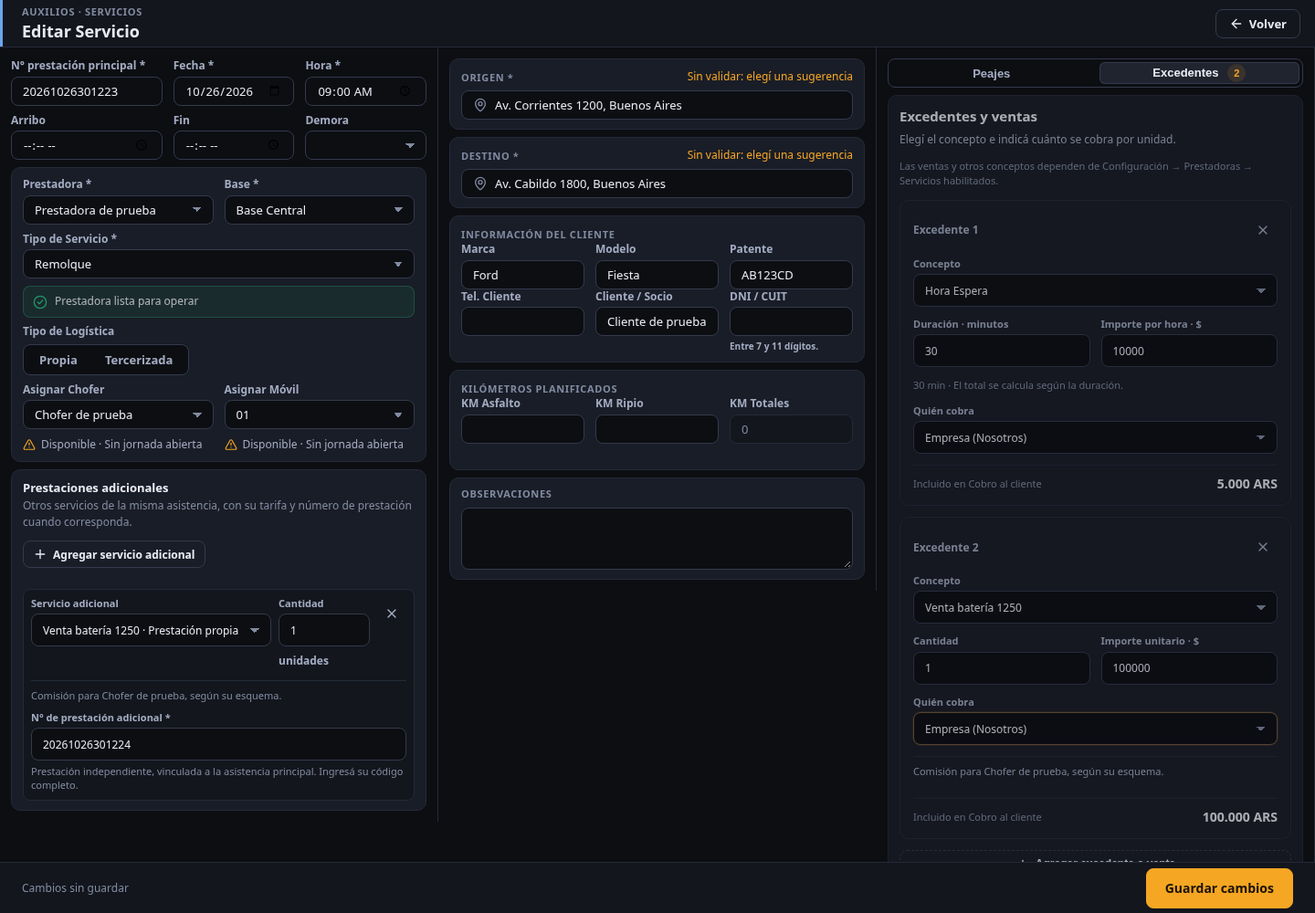
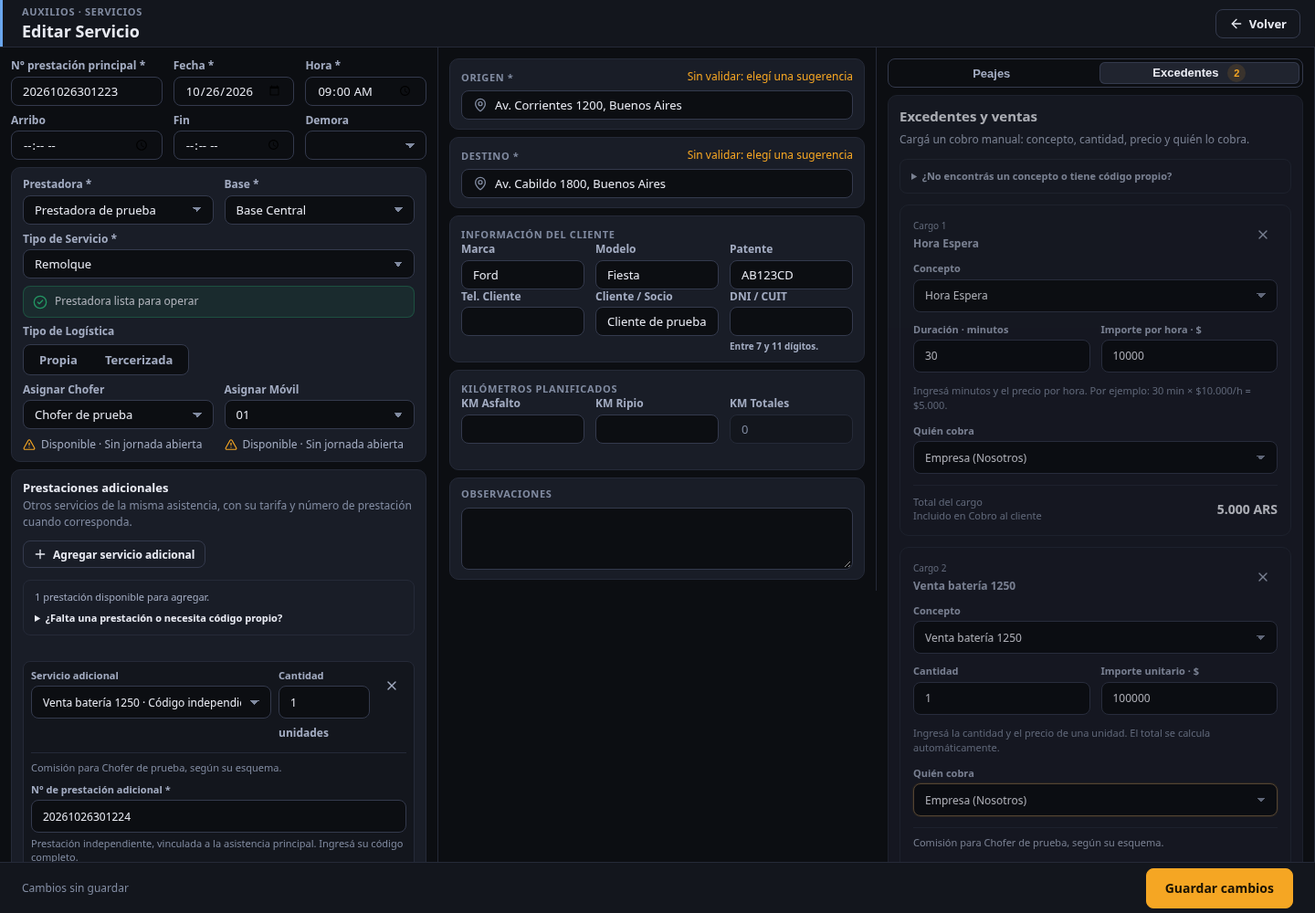
Clarify excess charge entry and additional prestation availability

diff --git a/operator-service-workspace-reactive-v1.js b/operator-service-workspace-reactive-v1.js
@@ -85,7 +85,7 @@ function mount(){
   <section class="osv2-column admin-column">
    <div class="osv2-inline-grid three top-fields"><label><span>N° prestación principal *</span><input id="osv4-service-order" data-key="service_order_number"></label><label><span>Fecha *</span><input id="osv4-date" type="date" data-schedule="date"></label><label><span>Hora *</span><input id="osv4-time" type="time" data-schedule="time"></label><label><span>Arribo</span><input id="osv4-arrival" type="time" data-time-field="estimated_arrival_at"></label><label><span>Fin</span><input id="osv4-finish" type="time" data-time-field="estimated_finish_at"></label><label><span>Demora</span><select id="osv4-delay" data-key="granted_delay_minutes"><option value="0">Sin demora</option>${[30,60,75,90,120,180,240].map(v=>`<option value="${v}">${v} min</option>`).join('')}</select></label></div>
    <section class="osv2-card admin-card"><div class="osv2-inline-grid two"><label><span>Prestadora *</span><select id="osv4-company" data-struct="company"></select></label><label><span>Base *</span><select id="osv4-base" data-struct="base"></select></label></div><label><span>Tipo de Servicio *</span><select id="osv4-primary" data-struct="primary"></select></label><div id="osv4-context-status" class="osv4-context-status"></div><div class="osv2-logistics"><span>Tipo de Logística</span><div><button id="osv4-logistics-own" type="button" data-click="set-logistics" data-logistics="own">Propia</button><button id="osv4-logistics-third" type="button" data-click="set-logistics" data-logistics="third_party">Tercerizada</button></div></div><div class="osv2-inline-grid two assignment-grid" data-field-config="assigned_resources"><label><span data-field-label>Asignar Chofer</span><select id="osv4-driver" data-assignment="driver"></select></label><label><span data-field-label>Asignar Móvil</span><select id="osv4-truck" data-assignment="truck"></select></label></div><div id="osv4-terc-pick" class="osc-pick" hidden></div></section>
-   <section class="osv2-concepts-section"><div class="osv2-concepts-head"><div><b>Prestaciones adicionales</b><small>Otros servicios de la misma asistencia, con su tarifa y número de prestación cuando corresponda.</small></div><button id="osv4-add-concept" class="osv2-add-concept-trigger" type="button" data-click="add-concept" disabled>${ico('plus')}Agregar servicio adicional</button></div><div id="osv4-concept-rows" class="osv4-concept-table"></div></section>
+   <section class="osv2-concepts-section"><div class="osv2-concepts-head"><div><b>Prestaciones adicionales</b><small>Otros servicios de la misma asistencia, con su tarifa y número de prestación cuando corresponda.</small></div><button id="osv4-add-concept" class="osv2-add-concept-trigger" type="button" data-click="add-concept" disabled>${ico('plus')}Agregar servicio adicional</button></div><div id="osv4-concept-guidance" class="osv4-concept-guidance" role="status"></div><div id="osv4-concept-rows" class="osv4-concept-table"></div></section>
   </section>
   <section class="osv2-column route-column">
    ${locationMarkup('origin','Origen')}${locationMarkup('destination','Destino')}
@@ -107,7 +107,7 @@ function bind(shell){shell.addEventListener('input',onInput);shell.addEventListe
 function onInput(e){const t=e.target;if(W()?.mode==='view')return;if(t.id==='osv4-change-reason'){window.cambiarMotivoServicio?.(t.value);return syncFooter();}if(t.dataset.conceptQty){window.cantidadSecundarioServicio?.(t.dataset.conceptQty,t.dataset.minutes==='true'?window.AuxiliosServiceImprovements.minutesToHours(t.value):t.value,false);return syncFooter();}if(t.dataset.conceptCode){window.codigoSecundarioServicio?.(t.dataset.conceptCode,t.value);const error=O()?.prestationCodeErrors?.()[t.dataset.conceptCode];t.setAttribute('aria-invalid',String(!!error&&ui.showConceptErrors));const help=t.closest('.osv4-code-cell')?.querySelector('.osv4-code-help');if(help){help.classList.toggle('is-error',!!error&&ui.showConceptErrors);help.textContent=error&&ui.showConceptErrors?error:'Prestación independiente, vinculada a la asistencia principal.';}return syncFooter();}if(t.dataset.key){let v=t.value;if(t.dataset.key==='vehicle_plate')v=v.toUpperCase();if(t.dataset.key==='customer_phone')v=digits(v,15);if(t.dataset.key==='customer_document')v=digits(v,11);if(t.value!==v)t.value=v;window.osSetServicio?.(t.dataset.key,v);return syncFooter();}if(t.dataset.distance){const v=decimal(t.value);if(t.value!==v)t.value=v;window.osSetServicio?.(t.dataset.distance,Math.max(0,num(v)));const d=W()?.data||{};window.osSetServicio?.('estimated_distance_km',num(d.estimated_asphalt_km)+num(d.estimated_gravel_km));setControl('osv4-total-km',num(d.estimated_asphalt_km)+num(d.estimated_gravel_km));return syncFooter();}if(t.dataset.address)return addressInput(t.dataset.address,t.value);}
 async function onChange(e){if(e.target.hasAttribute('data-activation-kind')){W().activationKind=e.target.value;W().activationChoiceOpen=false;W().dirty=true;syncIntakeActivation();if(e.target.value==='origin')await computeRoute();else{/* Se parte de los km que informó el chofer, si los hay. */const km=Math.max(0,num(W().reportedDistanceKm));for(const [k,v] of [['estimated_asphalt_km',km],['estimated_gravel_km',0],['estimated_distance_km',km]])window.osSetServicio?.(k,v);window.AuxiliosRouteGeometry=null;statusLine(document.getElementById('osv4-route-status'),'activation-movement','','Activado Movida: cargá los km que hizo el móvil.');sync();}return;}if(W()?.mode==='view')return;const t=e.target;if(t.dataset.struct==='company'){ui.conceptRows=[];await window.seleccionarEmpresaServicio?.(t.value);await computeRoute();return sync();}if(t.dataset.struct==='base'){await window.cambiarBaseServicio?.(t.value);await computeRoute();return sync();}if(t.dataset.struct==='primary'){await window.seleccionarPrincipalServicio?.(t.value);return sync();}if(t.dataset.conceptRow!==undefined)return setConceptRow(t.dataset.conceptRow,t.value);if(t.dataset.conceptQty)return window.cantidadSecundarioServicio?.(t.dataset.conceptQty,t.dataset.minutes==='true'?window.AuxiliosServiceImprovements.minutesToHours(t.value):t.value,true);if(t.dataset.schedule)return setSchedule(t.dataset.schedule,t.value);if(t.dataset.timeField)return setTimeField(t.dataset.timeField,t.value);if(t.dataset.assignment){await window.asignarRecursoServicio?.(t.dataset.assignment,t.value);return sync();}}
 function canEditFromView(w){if(!w||w.mode!=='view'||w.busy||!O()?.canManage?.())return false;if(['completed','cancelled'].includes(w.serviceStatus))return !!O()?.canEditHistoryService?.({...O()?.service?.(w.serviceId),...w.serviceSnapshot,status:w.serviceStatus});return !!w.locks?.can_edit;}
-async function onClick(e){const b=e.target.closest?.('[data-click]');if(!b)return;const a=b.dataset.click;if(a==='close')return window.cerrarNuevoServicio?.();if(a==='edit-from-view'){const w=W(),id=w?.serviceId;if(!id||!canEditFromView(w))return;const edit=w.serviceStatus==='completed'?window.editarServicioFacturacion:window.editarServicioOperador;if(typeof edit!=='function')return window.toast?.('El editor todavía se está cargando. Intentá nuevamente.','warning');window.cerrarNuevoServicio?.(true);return edit(id);}if(W()?.mode==='view')return;if(a==='finish')return window.AuxiliosRemitoReviewV2?.finalizeEmbedded?.();if(a==='save'){await window.guardarServicioWorkspace?.({keepOpen:W()?.mode==='edit'&&!!W()?.remitoId});return sync();}if(a==='set-logistics'){window.osSetServicio?.('logistics_type',b.dataset.logistics||'own');/* Tercerizada: lo hace una grúa de afuera, sin chofer ni móvil propios. */if(b.dataset.logistics==='third_party'&&!locked('assigned_driver_id')&&!locked('assigned_truck_id')){window.osSetServicio?.('assigned_driver_id','');window.osSetServicio?.('assigned_truck_id','');}return sync();}if(a==='add-concept'){if(!W()?.data?.company_id||conceptsLocked())return;const empty=ui.conceptRows.find(r=>!r.conceptId);if(!empty)ui.conceptRows.push({id:uid(),conceptId:''});renderConcepts();document.querySelector('#osv4-concept-rows [data-concept-row="'+(empty?.id||ui.conceptRows.at(-1).id)+'"]')?.focus();return;}if(a==='remove-concept')return removeConceptRow(b.dataset.row);if(a==='pick-address')return selectAddress(b.dataset.kind,Number(b.dataset.index));}
+async function onClick(e){const b=e.target.closest?.('[data-click]');if(!b)return;const a=b.dataset.click;if(a==='close')return window.cerrarNuevoServicio?.();if(a==='edit-from-view'){const w=W(),id=w?.serviceId;if(!id||!canEditFromView(w))return;const edit=w.serviceStatus==='completed'?window.editarServicioFacturacion:window.editarServicioOperador;if(typeof edit!=='function')return window.toast?.('El editor todavía se está cargando. Intentá nuevamente.','warning');window.cerrarNuevoServicio?.(true);return edit(id);}if(W()?.mode==='view')return;if(a==='finish')return window.AuxiliosRemitoReviewV2?.finalizeEmbedded?.();if(a==='save'){await window.guardarServicioWorkspace?.({keepOpen:W()?.mode==='edit'&&!!W()?.remitoId});return sync();}if(a==='set-logistics'){window.osSetServicio?.('logistics_type',b.dataset.logistics||'own');/* Tercerizada: lo hace una grúa de afuera, sin chofer ni móvil propios. */if(b.dataset.logistics==='third_party'&&!locked('assigned_driver_id')&&!locked('assigned_truck_id')){window.osSetServicio?.('assigned_driver_id','');window.osSetServicio?.('assigned_truck_id','');}return sync();}if(a==='add-concept'){if(!W()?.data?.company_id||conceptsLocked())return;const empty=ui.conceptRows.find(r=>!r.conceptId);if(!empty)ui.conceptRows.push({id:uid(),conceptId:''});renderConcepts();const input=document.querySelector('#osv4-concept-rows [data-concept-row="'+(empty?.id||ui.conceptRows.at(-1).id)+'"]');(input?.nextElementSibling?.querySelector('.ax-select-btn')||input)?.focus();return;}if(a==='remove-concept')return removeConceptRow(b.dataset.row);if(a==='pick-address')return selectAddress(b.dataset.kind,Number(b.dataset.index));}
 async function onFocusOut(e){if(W()?.mode==='view')return;const t=e.target;if(t.id==='osv4-service-order'){await window.validarCodigoPrestadoraServicio?.();syncWarnings();}}
 function outside(e){if(!e.target.closest?.('.osv4-address-wrap')){closeSuggestions('origin',true);closeSuggestions('destination',true);}}
 function setSchedule(kind,value){const w=W();if(!w||w.mode==='view')return;const p=localParts(w.data.scheduled_for),date=kind==='date'?value:p.date,time=kind==='time'?value:p.time||'00:00';window.osSetServicio?.('scheduled_for',`${date}T${time}`);w.contextKey='';window.actualizarContextoServicio?.();syncFooter();}
@@ -128,8 +128,12 @@ function warningText(data){const m=data?.matches?.[0];if(!m)return'';return`Este
 function syncWarnings(){const w=W(),order=document.getElementById('osv4-service-order');let note=document.getElementById('osv4-provider-code-warning');if(!note&&order){note=document.createElement('small');note.id='osv4-provider-code-warning';note.className='osv3-code-warning';order.insertAdjacentElement('afterend',note);}if(note){note.textContent=warningText(w?.codeWarning);note.hidden=w?.mode==='view'||!w?.codeWarning;}}
 function syncFieldConfiguration(){const create=W()?.mode==='create';document.querySelectorAll('[data-field-config]').forEach(wrapper=>{const key=wrapper.dataset.fieldConfig,mode=fieldMode(key);wrapper.hidden=mode==='hidden';wrapper.dataset.fieldMode=mode;wrapper.querySelectorAll('[data-field-label]').forEach(label=>{const base=label.dataset.baseLabel||label.textContent.replace(/\s*\*$/,'');label.dataset.baseLabel=base;label.textContent=create&&mode==='required'?`${base} *`:base;});});}
 function ensureConceptRows(){const selected=Object.keys(W()?.data?.secondary_items||{});for(const id of selected)if(!ui.conceptRows.some(r=>String(r.conceptId)===String(id)))ui.conceptRows.push({id:uid(),conceptId:id});ui.conceptRows=ui.conceptRows.filter(r=>!r.conceptId||selected.includes(String(r.conceptId)));}
-function renderConcepts(){const box=document.getElementById('osv4-concept-rows'),add=document.getElementById('osv4-add-concept'),w=W();if(!box||!w)return;const view=w.mode==='view',lockedState=conceptsLocked();ensureConceptRows();const available=secondaryItems(),remaining=available.filter(x=>!w.data.secondary_items?.[x.concept_id]);if(add){add.hidden=view;add.disabled=!w.data.company_id||lockedState||!remaining.length;add.title=!w.data.company_id?'Elegí primero la Prestadora':!remaining.length?'No quedan servicios adicionales disponibles':'';}if(!w.data.company_id){box.innerHTML='<div class="osv2-empty compact">Elegí la Prestadora para ver sus servicios adicionales.</div>';return;}if(!ui.conceptRows.length){box.innerHTML=`<div class="osv2-empty compact">${available.length?'Sin servicios adicionales.':'No hay servicios adicionales con tarifa para esta Prestadora. Revisá Configuración.'}</div>`;return;}box.innerHTML=ui.conceptRows.map(row=>conceptRowMarkup(row,available,view||lockedState)).join('');box.querySelectorAll('select:not([data-ax-enhanced])').forEach(el=>window.AxUI?.select?.(el));}
-function conceptRowMarkup(row,available,disabled){const item=conceptById(row.conceptId),hourly=window.AuxiliosServiceImprovements?.isHourly(item),selected=new Set(ui.conceptRows.filter(r=>r.id!==row.id&&r.conceptId).map(r=>String(r.conceptId))),options=available.filter(x=>!selected.has(String(x.concept_id))||String(x.concept_id)===String(row.conceptId)),quantity=item?Math.max(.01,num(W()?.data?.secondary_items?.[item.concept_id])||1):1,unit=unitMeta(item?.pricing_unit),code=String(W()?.data?.item_codes?.[item?.concept_id]||''),missing=ui.showConceptErrors&&O()?.prestationCodeErrors?.()[item?.concept_id];return`<div class="osv4-concept-row" data-row="${esc(row.id)}"><label class="osv4-concept-select"><span>Servicio adicional</span><select data-concept-row="${esc(row.id)}" ${disabled?'disabled':''}><option value="">Elegí un servicio…</option>${options.map(x=>`<option value="${esc(x.concept_id)}" ${String(x.concept_id)===String(row.conceptId)?'selected':''}>${esc(x.name||'Concepto')}${x.requires_own_code?' · Prestación propia':''}</option>`).join('')}${item&&!options.some(x=>String(x.concept_id)===String(item.concept_id))?`<option value="${esc(item.concept_id)}" selected>${esc(item.name||'Concepto')}</option>`:''}</select></label>
+function renderConcepts(){const box=document.getElementById('osv4-concept-rows'),add=document.getElementById('osv4-add-concept'),help=document.getElementById('osv4-concept-guidance'),w=W();if(!box||!w)return;const view=w.mode==='view',lockedState=conceptsLocked();ensureConceptRows();const catalog=(w.items||[]).filter(x=>x.can_be_secondary&&String(x.concept_id)!==String(w.data.primary_concept_id)),available=secondaryItems(),remaining=available.filter(x=>!w.data.secondary_items?.[x.concept_id]),blocked=catalog.filter(x=>!x.available);
+const reason=!w.data.company_id?'Elegí primero la Prestadora.':lockedState?'Las prestaciones no se pueden modificar en el estado actual del servicio.':!remaining.length?(available.length?'Ya agregaste todas las prestaciones disponibles.':'No hay prestaciones adicionales disponibles para esta prestadora.') : '';
+if(add){add.hidden=view;add.disabled=!!reason;add.title=reason;add.setAttribute('aria-describedby','osv4-concept-guidance');}
+if(help){help.hidden=view;help.innerHTML=!w.data.company_id?'Elegí la prestadora para consultar sus prestaciones.':`<p>${esc(reason||remaining.length+' prestación'+(remaining.length===1?' disponible':'es disponibles')+' para agregar.')}</p><details><summary>¿Falta una prestación o necesita código propio?</summary><p>Configuración → Prestadoras → Servicios habilitados: habilitá el concepto y, en Código de la prestación, elegí Tiene prestación propia si necesita un número independiente. El número completo se carga en cada prestación del servicio.</p><p>En Tarifas de la prestadora, revisá el precio y la vigencia para la fecha del servicio. Los cobros manuales se cargan en Excedentes y ventas.</p>${blocked.length?`<ul>${blocked.map(x=>`<li><b>${esc(x.name)}</b> · ${x.has_price?'No disponible para esta fecha o configuración':'Sin tarifa vigente'}</li>`).join('')}</ul>`:''}</details>`;}
+if(!w.data.company_id){box.innerHTML='';return;}if(!ui.conceptRows.length){box.innerHTML='<div class="osv2-empty compact">Sin prestaciones adicionales cargadas.</div>';return;}box.innerHTML=ui.conceptRows.map(row=>conceptRowMarkup(row,catalog,view||lockedState)).join('');box.querySelectorAll('select:not([data-ax-enhanced])').forEach(el=>window.AxUI?.select?.(el));}
+function conceptRowMarkup(row,available,disabled){const item=conceptById(row.conceptId),hourly=window.AuxiliosServiceImprovements?.isHourly(item),selected=new Set(ui.conceptRows.filter(r=>r.id!==row.id&&r.conceptId).map(r=>String(r.conceptId))),options=available.filter(x=>!selected.has(String(x.concept_id))||String(x.concept_id)===String(row.conceptId)),quantity=item?Math.max(.01,num(W()?.data?.secondary_items?.[item.concept_id])||1):1,unit=unitMeta(item?.pricing_unit),code=String(W()?.data?.item_codes?.[item?.concept_id]||''),missing=ui.showConceptErrors&&O()?.prestationCodeErrors?.()[item?.concept_id];return`<div class="osv4-concept-row" data-row="${esc(row.id)}"><label class="osv4-concept-select"><span>Servicio adicional</span><select data-concept-row="${esc(row.id)}" ${disabled?'disabled':''}><option value="">Elegí un servicio…</option>${options.map(x=>`<option value="${esc(x.concept_id)}" ${String(x.concept_id)===String(row.conceptId)?'selected':''} ${!x.available?'disabled':''}>${esc(x.name||'Concepto')}${!x.available?(x.has_price?' · No disponible':' · Sin tarifa vigente'):x.requires_own_code?' · Código independiente':''}</option>`).join('')}${item&&!options.some(x=>String(x.concept_id)===String(item.concept_id))?`<option value="${esc(item.concept_id)}" selected>${esc(item.name||'Concepto')}</option>`:''}</select></label>
  <label class="osv4-qty-cell"><span>${hourly?'Duración · minutos':'Cantidad'}</span><input aria-label="${hourly?'Duración en minutos':'Cantidad'}" type="number" min="${hourly?.6:unit.step}" step="${hourly?.6:unit.step}" value="${hourly?window.AuxiliosServiceImprovements.hoursToMinutes(quantity):quantity}" data-minutes="${!!hourly}" data-concept-qty="${esc(item?.concept_id||'')}" ${disabled||unit.locked||!item?'disabled':''}><small>${hourly?window.AuxiliosServiceImprovements.duration(quantity):unit.label}</small></label>
  <div class="osv4-code-cell">${window.OperatorServiceCommercialAddonsV1?.commissionNote?.(item?.concept_id)||''}${!item?'':item.requires_own_code?`<label><span>N° de prestación adicional *</span><input aria-label="Número de prestación adicional" aria-required="true" aria-invalid="${!!missing}" data-concept-code="${esc(item.concept_id)}" value="${esc(code)}" placeholder="Código entregado por la Prestadora" ${disabled?'disabled':''}></label><small class="osv4-code-help${missing?' is-error':''}">${missing?esc(missing):'Prestación independiente, vinculada a la asistencia principal. Ingresá su código completo.'}</small>`:`<small>Vinculada a la prestación principal ${esc(W()?.data?.service_order_number||'sin número')}.</small>`}</div>
  ${disabled?'':`<button type="button" data-click="remove-concept" data-row="${esc(row.id)}" aria-label="Quitar ${esc(item?.name||'servicio adicional')}">${ico('x')}</button>`}</div>`;}

diff --git a/operator-service-commercial-addons-v1.js b/operator-service-commercial-addons-v1.js
@@ -59,14 +59,14 @@ function renderTollRow(row,index,mode){const {rate}=rateFor(row.toll_id),qty=Mat
  ${disabled?'':`<button type="button" class="osca-remove" data-ca="remove-toll" data-index="${index}" aria-label="Quitar peaje">${ico('x')}</button>`}
  </div>`;}
 function commissionNote(conceptId){const w=W(),rules=(w?.context?.commission_assignments||[]).filter(x=>String(x.concept_id)===String(conceptId));if(!rules.length)return'';const driverId=w.data?.assigned_driver_id||w.serviceSnapshot?.responsible_driver_id||w.serviceSnapshot?.activation_driver_id||w.intakeContext?.service?.assigned_driver_id,driver=O()?.driver?.(driverId),name=driver?.full_name||w.serviceSnapshot?.driver_name||'Chofer del servicio';return `<small class="osca-commission-note">${!driverId?'Comisión: se atribuye al chofer responsable al finalizar.':rules.some(x=>String(x.driver_id)===String(driverId))?'Comisión para '+esc(name)+', según su esquema.':'El chofer responsable no tiene una comisión asignada para este concepto.'}</small>`;}
-function renderExcessRow(row,index){const meta=O()?.excessConcepts?.().find(x=>String(x.concept_id)===String(row.concept_id)),hourly=window.AuxiliosServiceImprovements?.isHourly({...meta,...row}),unit=meta?.pricing_unit||row.pricing_unit,disabled=readOnly(),errors=state.missing?O()?.excessRowErrors?.(row)||{}:{},field=(key,label,control)=>`<label class="osca-excess-field${errors[key]?' is-missing':''}"><span>${label}</span>${control}${errors[key]?`<small class="osca-field-error" role="alert">${esc(errors[key])}</small>`:''}</label>`,attrs=key=>`data-ca-excess-field="${key}" data-index="${index}" ${disabled?'disabled':''} ${errors[key]?'aria-invalid="true"':''}`,qtyLabel=hourly?'Duración · minutos':unit==='km'?'Kilómetros':'Cantidad';
- return `<article class="osca-excess-card" data-excess-index="${index}"><header><b>Excedente ${index+1}</b>${disabled?'':`<button type="button" class="osca-remove" data-ca="remove-excess" data-index="${index}" aria-label="Quitar excedente ${index+1}">${ico('x')}</button>`}</header>
+function renderExcessRow(row,index){const meta=O()?.excessConcepts?.().find(x=>String(x.concept_id)===String(row.concept_id)),hourly=window.AuxiliosServiceImprovements?.isHourly({...meta,...row}),unit=meta?.pricing_unit||row.pricing_unit,disabled=readOnly(),errors=state.missing?O()?.excessRowErrors?.(row)||{}:{},field=(key,label,control)=>`<label class="osca-excess-field${errors[key]?' is-missing':''}"><span>${label}</span>${control}${errors[key]?`<small class="osca-field-error" role="alert">${esc(errors[key])}</small>`:''}</label>`,attrs=key=>`data-ca-excess-field="${key}" data-index="${index}" ${disabled?'disabled':''} ${errors[key]?'aria-invalid="true"':''}`,qtyLabel=hourly?'Duración · minutos':unit==='km'?'Kilómetros':unit==='day'?'Días':'Cantidad';
+ return `<article class="osca-excess-card" data-excess-index="${index}"><header><div><small>Cargo ${index+1}</small><b>${esc(row.concept_name||meta?.name||'Nuevo excedente o venta')}</b></div>${disabled?'':`<button type="button" class="osca-remove" data-ca="remove-excess" data-index="${index}" aria-label="Quitar excedente ${index+1}">${ico('x')}</button>`}</header>
  ${field('concept_id','Concepto',`<select ${attrs('concept_id')}>${conceptOptions(row.concept_id,row.concept_name)}</select>`)}
  ${isExcessOther(row.concept_id)?field('concept_name','Descripción',`<input type="text" maxlength="80" placeholder="¿Qué se cobró?" value="${esc(row.concept_name||'')}" ${attrs('concept_name')}>`):''}
- <div class="osca-excess-numbers">${field('quantity',qtyLabel,`<input type="number" min="${hourly?.6:.01}" step="${hourly?.6:.01}" inputmode="decimal" value="${row.quantity===''?'':hourly?window.AuxiliosServiceImprovements.hoursToMinutes(row.quantity):esc(row.quantity)}" data-minutes="${!!hourly}" ${attrs('quantity')}>`)}${field('unit_amount',hourly?'Importe por hora · $':unit==='km'?'Importe por km · $':'Importe unitario · $',`<input type="number" min="0.01" step="0.01" inputmode="decimal" placeholder="0,00" value="${row.unit_amount===''?'':esc(row.unit_amount)}" ${attrs('unit_amount')}>`)}</div>
- ${hourly?`<small class="osca-excess-help">${window.AuxiliosServiceImprovements.duration(row.quantity)} · El total se calcula según la duración.</small>`:''}
+ <div class="osca-excess-numbers">${field('quantity',qtyLabel,`<input type="number" min="${hourly?.6:.01}" step="${hourly?.6:.01}" inputmode="decimal" value="${row.quantity===''?'':hourly?window.AuxiliosServiceImprovements.hoursToMinutes(row.quantity):esc(row.quantity)}" data-minutes="${!!hourly}" ${attrs('quantity')}>`)}${field('unit_amount',hourly?'Importe por hora · $':unit==='km'?'Importe por km · $':unit==='day'?'Importe por día · $':'Importe unitario · $',`<input type="number" min="0.01" step="0.01" inputmode="decimal" placeholder="0,00" value="${row.unit_amount===''?'':esc(row.unit_amount)}" ${attrs('unit_amount')}>`)}</div>
+ <small class="osca-excess-help">${hourly?'Ingresá minutos y el precio por hora. Por ejemplo: 30 min × $10.000/h = $5.000.':unit==='km'?'Ingresá los kilómetros excedentes y el precio de cada kilómetro.':'Ingresá la cantidad y el precio de una unidad. El total se calcula automáticamente.'}</small>
  ${field('collector_agent','Quién cobra',`<select ${attrs('collector_agent')}>${optionRows(COLLECTORS,row.collector_agent,'Elegí quién cobra')}</select>`)}
- ${commissionNote(row.concept_id)}<footer><small>${row.collector_agent==='company'?'Incluido en Cobro al cliente':row.collector_agent==='provider'?'Lo cobra la Prestadora':''}</small><b data-excess-total="${index}">${money(num(row.quantity)*num(row.unit_amount),row.currency)}</b></footer>
+ ${commissionNote(row.concept_id)}<footer><small>Total del cargo<br>${row.collector_agent==='company'?'Incluido en Cobro al cliente':row.collector_agent==='provider'?'Lo cobra la Prestadora':''}</small><b data-excess-total="${index}">${money(num(row.quantity)*num(row.unit_amount),row.currency)}</b></footer>
  </article>`;}
 function actualTolls(){const rows=W()?.data?.actual_tolls||[];if(!rows.length)return'';return`<div class="osca-actual"><b>Peajes reales informados</b>${rows.map(row=>`<span>${esc(row.toll_name||'Peaje')} · ${Math.max(1,num(row.quantity)||1)} × ${money(row.unit_amount,row.currency||'ARS')}</span>`).join('')}</div>`;}
 function coverageList(c,disabled){return`<div class="osca-format-list" role="radiogroup" aria-label="Formato de cobro">${COVERAGE.map(([value,label])=>`<button type="button" role="radio" aria-checked="${String(c.toll_coverage_mode)===value}" data-ca="coverage" data-value="${value}" class="${String(c.toll_coverage_mode)===value?'active':''}" ${disabled?'disabled':''}><span class="osca-radio"></span><b>${esc(label)}</b></button>`).join('')}</div>`;}
@@ -76,7 +76,7 @@ function tollMatrix(c){const mode=c.toll_coverage_mode,disabled=readOnly();if(!m
  <div class="osca-matrix-body">${c.tolls.length?c.tolls.map((row,index)=>renderTollRow(row,index,mode)).join(''):'<div class="osca-empty-row">Sin peajes cargados.</div>'}</div>
  ${disabled?'':`<div class="osca-add-actions"><button type="button" class="osca-add-row" data-ca="new-toll">${ico('plus')}Agregar peaje</button><button type="button" class="osca-add-row" data-ca="detect-tolls">${ico('route')}Detectar peajes del recorrido</button>${c.tolls.length?`<button type="button" class="osca-add-row" data-ca="duplicate-tolls">${ico('copy')}Duplicar para la vuelta</button>`:''}</div>${window.AuxiliosTollDetection?.panelHtml?.()||''}`}
  </div>`;}
-function excessMatrix(c){const disabled=readOnly();return`<div class="osca-excess-editor"><div class="osca-title"><b>Excedentes y ventas</b><small>Elegí el concepto e indicá cuánto se cobra por unidad.</small></div><small class="osca-excess-help">Las ventas y otros conceptos dependen de Configuración → Prestadoras → Servicios habilitados.</small><div class="osca-excess-list">${c.excess_charges.length?c.excess_charges.map(renderExcessRow).join(''):'<div class="osca-excess-empty"><b>Sin excedentes</b><span>Agregá los cargos o ventas que correspondan al servicio.</span></div>'}</div>${disabled?'':`<button type="button" class="osca-add-row" data-ca="new-excess">${ico('plus')}Agregar excedente o venta</button>`}</div>`;}
+function excessMatrix(c){const disabled=readOnly();return`<div class="osca-excess-editor"><div class="osca-title"><b>Excedentes y ventas</b><small>Cargá un cobro manual: concepto, cantidad, precio y quién lo cobra.</small></div><div class="osca-excess-help"><details class="osca-catalog-help"><summary>¿No encontrás un concepto o tiene código propio?</summary><p>Las ventas se habilitan en Configuración → Prestadoras → Servicios habilitados. Si falta en el catálogo, crealo en Configuración → Tipos de servicio.</p><p>Una prestación con tarifa y código independiente se agrega en Prestaciones adicionales: allí se carga su número completo.</p></details></div><div class="osca-excess-list">${c.excess_charges.length?c.excess_charges.map(renderExcessRow).join(''):'<div class="osca-excess-empty"><b>Sin excedentes</b><span>Agregá los cargos o ventas que correspondan al servicio.</span></div>'}</div>${disabled?'':`<button type="button" class="osca-add-row" data-ca="new-excess">${ico('plus')}Agregar excedente o venta</button>`}</div>`;}
 
 function activationCard(){
  const w=W(),s=w?.serviceSnapshot||{},active=!!(s.driver_activated||w?.intakeActivated);if(!active)return '';
@@ -105,7 +105,7 @@ function render(){const w=W();if(w&&!state.autoOpened&&w.mode==='create'&&!w.adm
 function renderInner(){const w=W(),column=document.querySelector('.osv4-reactive .actions-column');if(!w||!column)return;state.reportOpen=column.querySelector('details.osaa-original')?.open??state.reportOpen;const classification=document.getElementById('osv4-activation-classification');classification?.remove();const review=column.querySelector('#osv4-review-slot');review?.remove();/* El historial vive en esta columna y se conserva al repintarla. */const history=column.querySelector('#osv4-history-panel');state.historyAllowed=history?history.dataset.allowed==='true':state.historyAllowed;history?.remove();/* Interruptores sí/no (Pinacars): se conservan al repintar. */const toggles=column.querySelector('#osv4-toggles');toggles?.remove();/* Tercerizado: también se conserva, arriba de todo. */const terc=column.querySelector('#osv4-terc');terc?.remove();/* Cobro al cliente (React): se conserva el nodo para no perder el estado del componente. */const cpSlot=column.querySelector('#osca-customer-payment');cpSlot?.remove();const restoreReview=()=>{if(toggles)column.prepend(toggles);if(terc)column.prepend(terc);if(classification)column.append(classification);column.append(review||Object.assign(document.createElement('div'),{id:'osv4-review-slot',className:'osv4-review-slot'}));if(history){history.hidden=!(history.dataset.allowed==='true'&&state.open==='history');column.append(history);}};const c=commercial(),disabled=readOnly(),provider=O()?.commercialProviderTollTotal?.()||0,customer=O()?.commercialCustomerTollTotal?.()||0,excess=O()?.commercialCustomerExcessTotal?.()||0;column.innerHTML=`${activationCard()}${W()?.serviceSnapshot?.driver_activated||w.administrativeEdit?'':remitoCard()}${actionTabs(c)}
  ${state.open==='tolls'?`<section class="osca-panel tolls">${coverageControl(c,disabled)}${tollMatrix(c)}${actualTolls()}${c.tolls.length?`<div class="osca-summary"><span>A cargo de la Prestadora</span><b>${money(provider)}</b><span>A cargo del cliente</span><b>${money(customer)}</b></div>`:''}</section>`:''}
  ${state.open==='excess'?`<section class="osca-panel excess">${excessMatrix(c)}${c.excess_charges.length?`<div class="osca-summary single"><span>Total excedentes</span><b data-excess-summary>${money(excess)}</b></div>`:''}</section>`:''}<div id="osca-customer-payment-anchor"></div>${administrativeReport()}`;const anchor=column.querySelector('#osca-customer-payment-anchor'),slot=cpSlot||Object.assign(document.createElement('div'),{id:'osca-customer-payment',className:'osca-customer-payment'});const showCp=(O()?.customerPaymentTotal?.()||0)>0;slot.hidden=!showCp;anchor.replaceWith(slot);restoreReview();if(showCp)paintCustomerPayment();}
-function onClick(event){const button=event.target.closest?.('[data-ca]');if(!button)return;const action=button.dataset.ca;if(action==='finalize-activated')return window.OperatorServiceLifecycleV2?.openActivatedFinalize?.(W()?.serviceId);if(action==='open-remito')return window.abrirRemitoFirmadoOperador?.(W()?.serviceId);if(action==='toggle-tolls'){state.open=state.open==='tolls'?null:'tolls';state.coverageEditing=false;return render();}if(action==='toggle-history'){state.open=state.open==='history'?null:'history';return render();}if(action==='toggle-excess'){state.open=state.open==='excess'?null:'excess';return render();}if(action==='change-coverage'&&!readOnly()){state.coverageEditing=true;return render();}if(readOnly())return;if(action==='coverage'){state.coverageEditing=false;return O()?.setCommercialCoverage?.(button.dataset.value||'');}if(action==='new-toll')return O()?.addCommercialToll?.();if(action==='detect-tolls'){Promise.resolve(window.AuxiliosTollDetection?.detect?.()).finally(()=>render());return;}if(action==='new-excess')return O()?.addCommercialExcess?.();if(action==='remove-toll')return O()?.removeCommercialToll?.(Number(button.dataset.index));if(action==='duplicate-tolls')return O()?.duplicateCommercialTolls?.();if(action==='remove-excess')return O()?.removeCommercialExcess?.(Number(button.dataset.index));if(action==='toll-payer')return O()?.updateCommercialToll?.(Number(button.dataset.index),'payer_agent',button.dataset.value,true);if(action==='toll-qty'){const i=Number(button.dataset.index),r=commercial().tolls[i];if(!r)return;return O()?.updateCommercialToll?.(i,'quantity',Math.max(1,Math.round(num(r.quantity)||1)+Number(button.dataset.delta||0)),true);}}
+function onClick(event){const button=event.target.closest?.('[data-ca]');if(!button)return;const action=button.dataset.ca;if(action==='finalize-activated')return window.OperatorServiceLifecycleV2?.openActivatedFinalize?.(W()?.serviceId);if(action==='open-remito')return window.abrirRemitoFirmadoOperador?.(W()?.serviceId);if(action==='toggle-tolls'){state.open=state.open==='tolls'?null:'tolls';state.coverageEditing=false;return render();}if(action==='toggle-history'){state.open=state.open==='history'?null:'history';return render();}if(action==='toggle-excess'){state.open=state.open==='excess'?null:'excess';return render();}if(action==='change-coverage'&&!readOnly()){state.coverageEditing=true;return render();}if(readOnly())return;if(action==='coverage'){state.coverageEditing=false;return O()?.setCommercialCoverage?.(button.dataset.value||'');}if(action==='new-toll')return O()?.addCommercialToll?.();if(action==='detect-tolls'){Promise.resolve(window.AuxiliosTollDetection?.detect?.()).finally(()=>render());return;}if(action==='new-excess'){const rows=commercial().excess_charges,empty=rows.findIndex(r=>!r.concept_id);if(empty<0)O()?.addCommercialExcess?.();const index=empty<0?commercial().excess_charges.length-1:empty;const input=document.querySelector(`[data-excess-index="${index}"] [data-ca-excess-field="concept_id"]`);(input?.nextElementSibling?.querySelector('.ax-select-btn')||input)?.focus();return;}if(action==='remove-toll')return O()?.removeCommercialToll?.(Number(button.dataset.index));if(action==='duplicate-tolls')return O()?.duplicateCommercialTolls?.();if(action==='remove-excess')return O()?.removeCommercialExcess?.(Number(button.dataset.index));if(action==='toll-payer')return O()?.updateCommercialToll?.(Number(button.dataset.index),'payer_agent',button.dataset.value,true);if(action==='toll-qty'){const i=Number(button.dataset.index),r=commercial().tolls[i];if(!r)return;return O()?.updateCommercialToll?.(i,'quantity',Math.max(1,Math.round(num(r.quantity)||1)+Number(button.dataset.delta||0)),true);}}
 function onInput(event){if(readOnly())return;const target=event.target;if(target.dataset.caField==='unit_amount')O()?.updateCommercialToll?.(Number(target.dataset.index),'unit_amount',target.value,false);if(target.dataset.caField==='quantity')O()?.updateCommercialToll?.(Number(target.dataset.index),target.dataset.caField,target.value,false);if(['quantity','unit_amount','concept_name'].includes(target.dataset.caExcessField))O()?.updateCommercialExcess?.(Number(target.dataset.index),target.dataset.caExcessField,target.value===''?'':target.dataset.minutes==='true'?window.AuxiliosServiceImprovements.minutesToHours(target.value):target.value,false);if(target.dataset.caExcessField){const key=target.dataset.caExcessField,field=target.closest('.osca-excess-field'),errors=O()?.excessRowErrors?.(commercial().excess_charges[Number(target.dataset.index)])||{};if(!errors[key]){target.removeAttribute('aria-invalid');field?.classList.remove('is-missing');field?.querySelector('.osca-field-error')?.remove();}const summary=document.querySelector('[data-excess-summary]');if(summary)summary.textContent=money(O()?.commercialCustomerExcessTotal?.()||0);const i=Number(target.dataset.index),row=commercial().excess_charges[i],total=document.querySelector(`[data-excess-total="${i}"]`);if(total&&row)total.textContent=money(num(row.quantity)*num(row.unit_amount),row.currency);paintCustomerPayment();}}
 function onChange(event){if(readOnly())return;const target=event.target;if(target.dataset.caField!==undefined)return O()?.updateCommercialToll?.(Number(target.dataset.index),target.dataset.caField,target.value,true);if(target.dataset.caExcessField!==undefined)return O()?.updateCommercialExcess?.(Number(target.dataset.index),target.dataset.caExcessField,target.value===''?'':target.dataset.minutes==='true'?window.AuxiliosServiceImprovements.minutesToHours(target.value):target.value,!['quantity','unit_amount','concept_name'].includes(target.dataset.caExcessField));}
 function bind(){if(state.bound)return;state.bound=true;document.addEventListener('click',onClick);document.addEventListener('input',onInput);document.addEventListener('change',onChange);}

diff --git a/operator-service-workspace-reactive-v1.css b/operator-service-workspace-reactive-v1.css
@@ -302,3 +302,7 @@
 .osv4-reactive .osv4-code-cell .is-error{color:var(--ax-danger,#ed8883)}
 .osv4-reactive .osv4-code-cell input[aria-invalid=true]{border-color:var(--ax-danger,#ed8883)!important}
 @media(max-width:600px){.osv4-reactive .osv4-concept-row{grid-template-columns:minmax(0,1fr) 84px 32px}.osv4-reactive .osv4-concept-row :is(input,select),.osv4-reactive .osv4-concept-row>button{height:44px!important}.osv4-reactive .osv2-add-concept-trigger{min-height:44px!important}}
+/* Catalog availability and provider-code guidance, using the existing form tokens. */
+.osv4-concept-guidance{padding:10px 12px;margin:0 0 10px;border:1px solid var(--osv2-border);border-radius:8px;background:var(--osv2-card);color:var(--osv2-muted2);font-size:11px;line-height:1.5;overflow-wrap:anywhere}
+.osv4-concept-guidance p{margin:0 0 6px}.osv4-concept-guidance p:last-child{margin-bottom:0}.osv4-concept-guidance summary{cursor:pointer;color:var(--osv2-text);font-weight:600}.osv4-concept-guidance details[open] summary{margin-bottom:8px}.osv4-concept-guidance ul{margin:8px 0 0;padding-left:18px}
+.osv4-concept-guidance[hidden]{display:none}

diff --git a/operator-service-commercial-addons-v1.css b/operator-service-commercial-addons-v1.css
@@ -201,3 +201,8 @@
 .osca-excess-editor>.osca-add-row{width:100%;min-height:38px;font-size:12px}
 @media(max-width:600px){.osca-excess-card{padding:12px}.osca-excess-card :is(input,select),.osca-excess-card .osca-remove{min-height:44px!important}.osca-excess-editor>.osca-add-row{min-height:44px}}
 .osca-commission-note{display:block;font-size:11px!important;line-height:1.5;color:var(--ax-text-2,var(--osv2-muted2));padding:8px 0;border-top:1px solid var(--ax-border,var(--osv2-border))}
+.osca-excess-card>header>div{display:grid;gap:4px;min-width:0;overflow-wrap:anywhere}
+.osca-excess-card>header small{font-size:10px;color:var(--ax-text-3,var(--osv2-muted2))}
+.osca-catalog-help{padding:10px 12px;border:1px solid var(--ax-border,var(--osv2-border));border-radius:8px;font-size:11px;line-height:1.5;overflow-wrap:anywhere}
+.osca-catalog-help summary{cursor:pointer;font-weight:600;color:var(--ax-text-2,var(--osv2-text))}
+.osca-catalog-help p{margin:8px 0 0}
